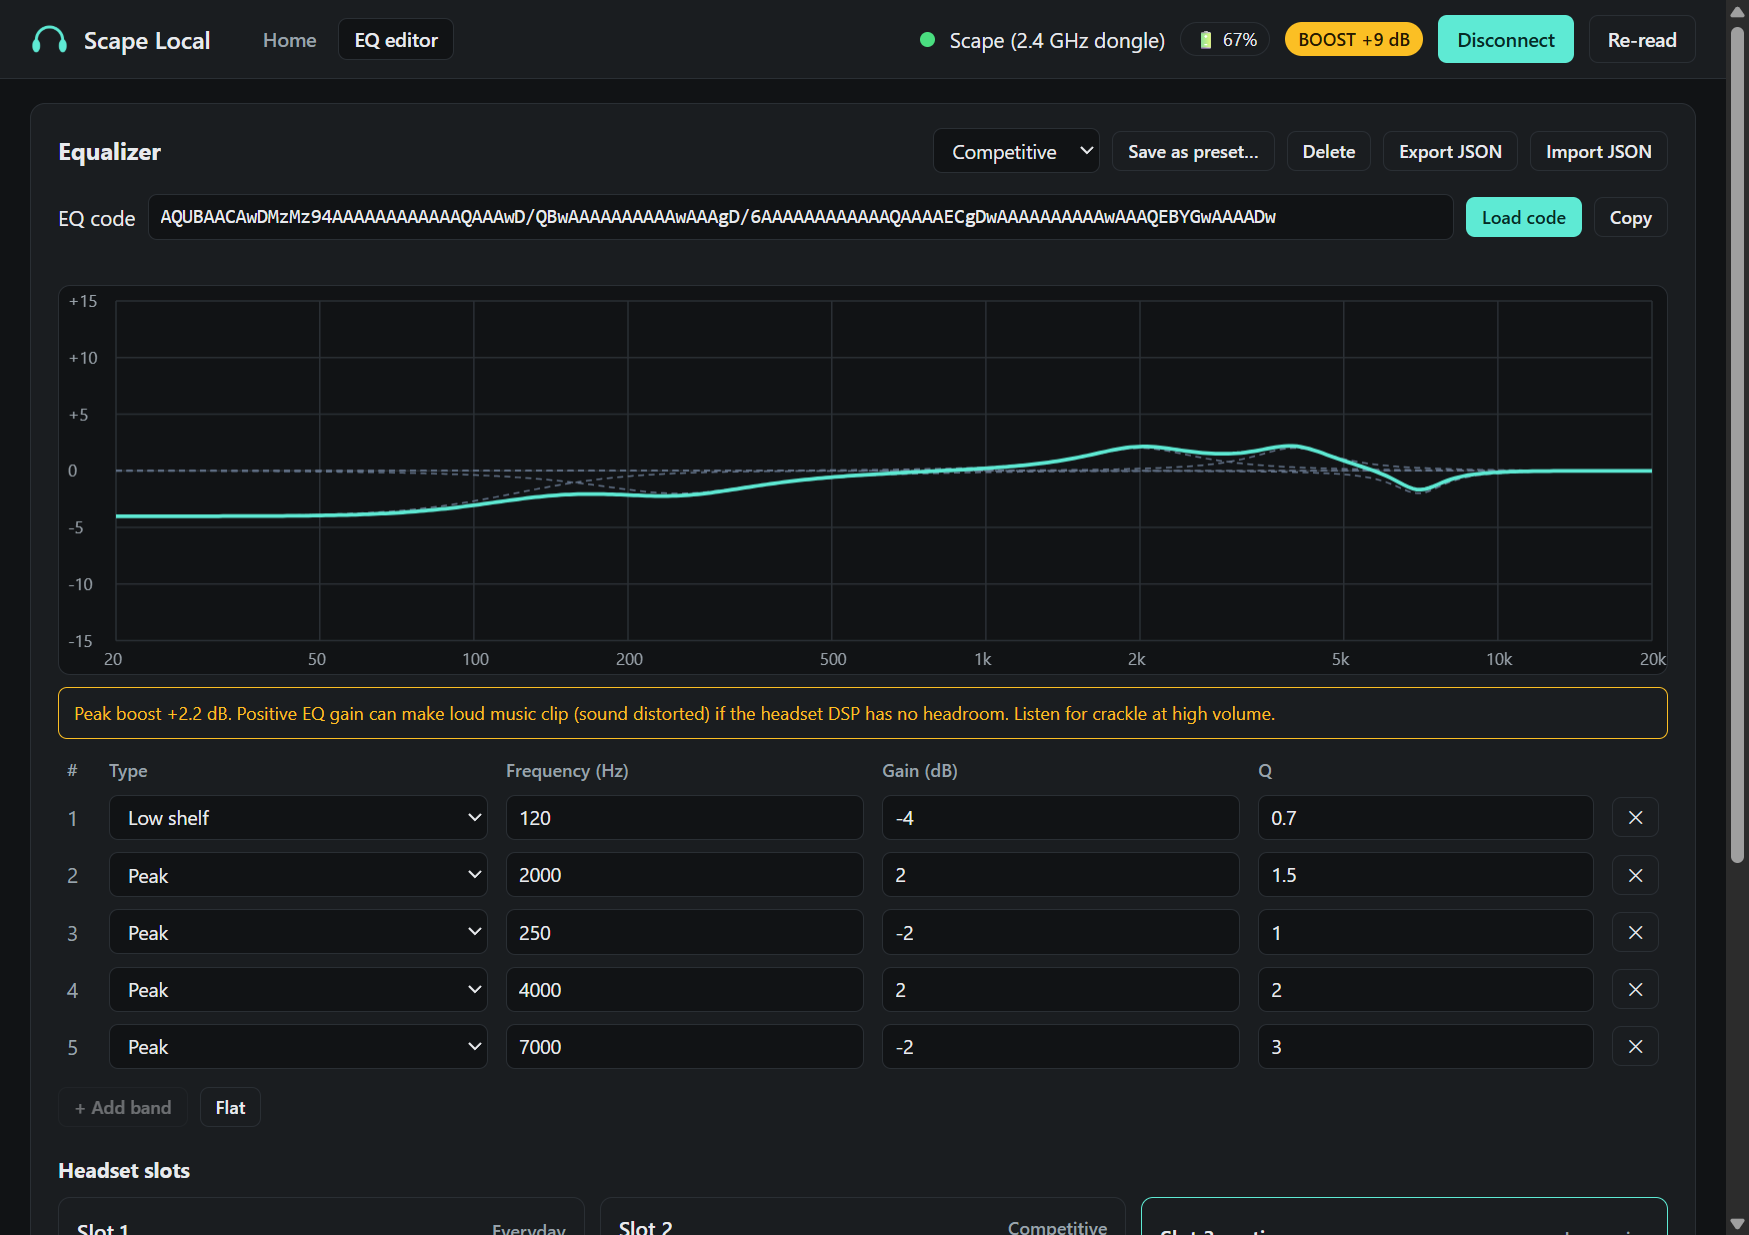
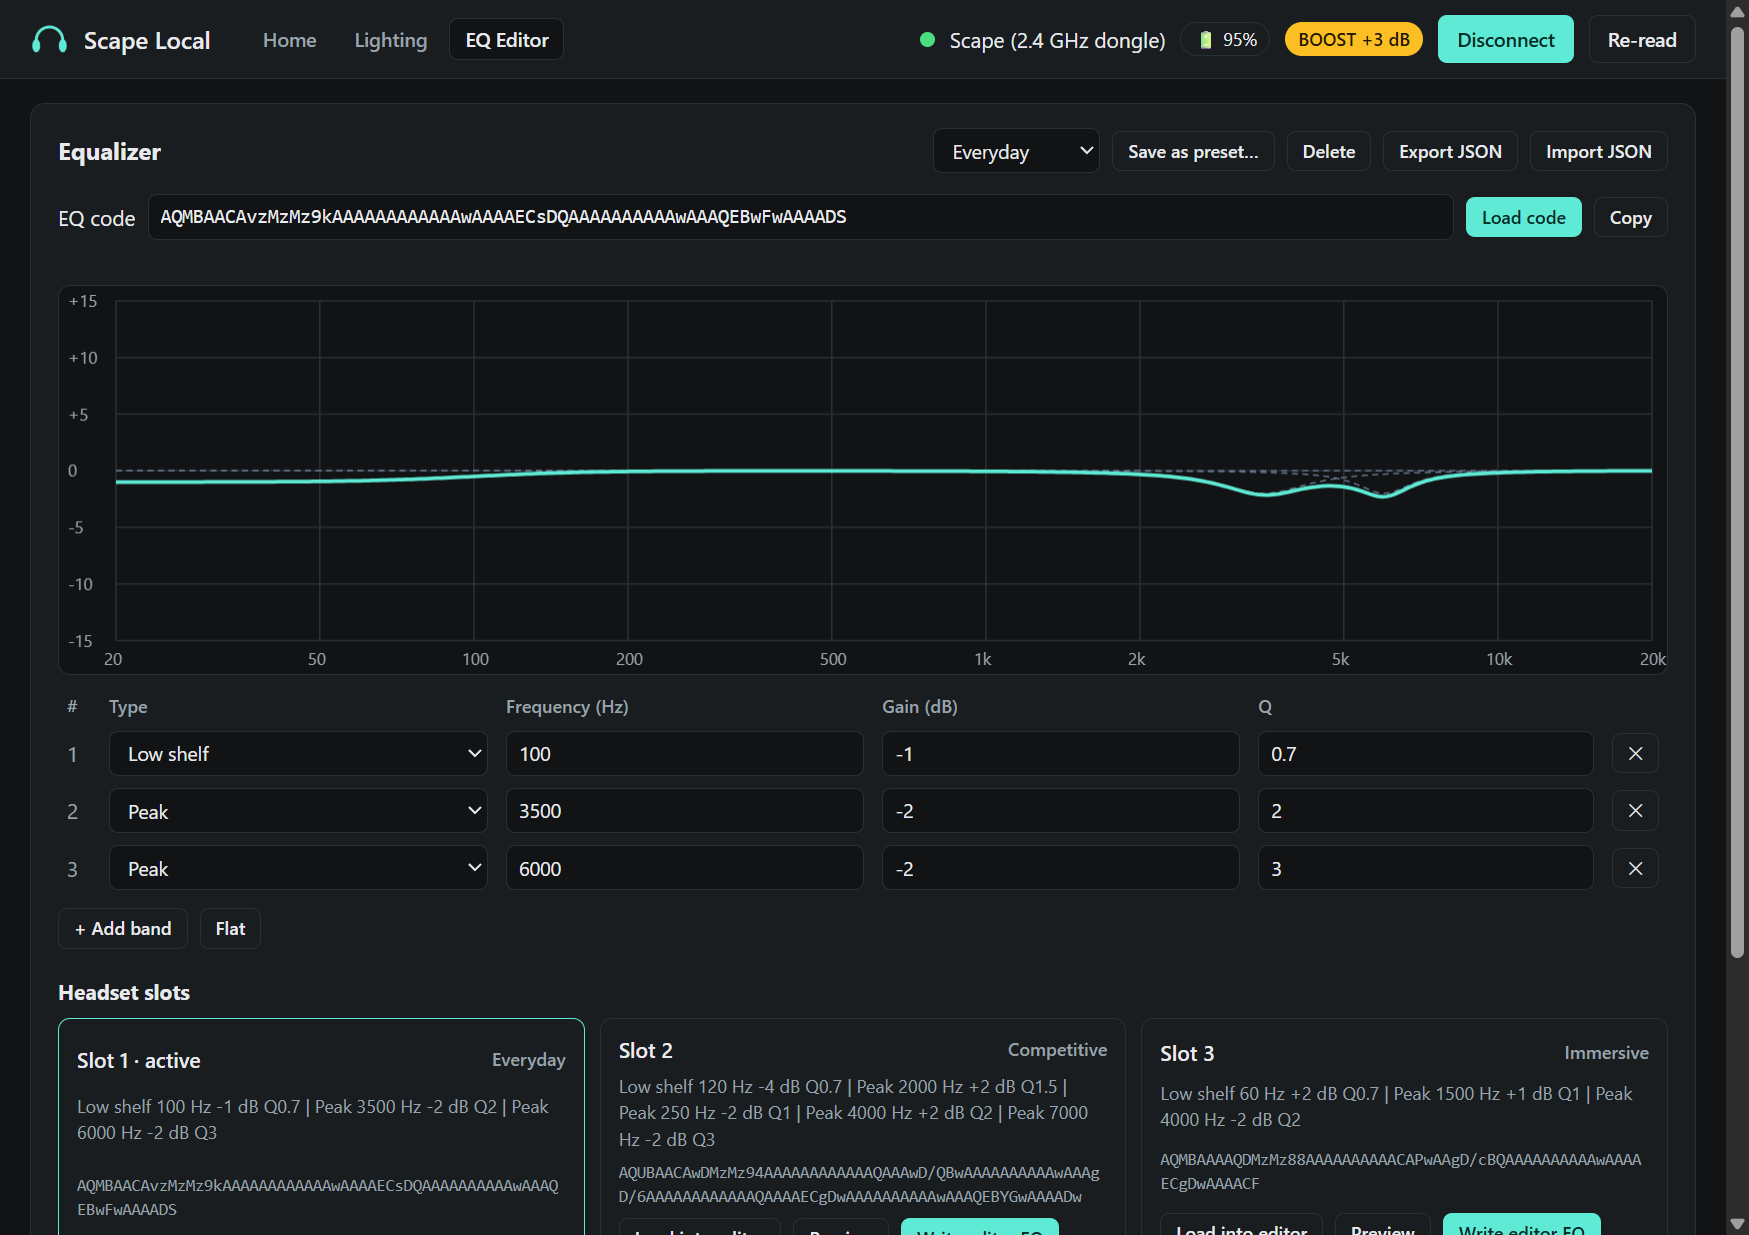
Lighting gets its own tab; "EQ Editor" label; new screenshots (v0.2.1)
- Home stays simple: EQ slots, headset info, lighting on/off (+ "Themes…" link), mic, Boost.
- Lighting card moved to a Lighting tab; the LED preview only animates while it's visible.
- Tab label "EQ editor" -> "EQ Editor".
- README: Lighting screenshot added, Home/EQ Editor screenshots retaken (serial masked).

diff --git a/app/renderer/index.html b/app/renderer/index.html
@@ -14,7 +14,8 @@
       <img src="img/icon.png" alt="" /><span>Scape Local</span>
       <nav class="tabs" aria-label="View">
         <button class="tab" data-view="home">Home</button>
-        <button class="tab" data-view="editor">EQ editor</button>
+        <button class="tab" data-view="lighting">Lighting</button>
+        <button class="tab" data-view="editor">EQ Editor</button>
       </nav>
     </div>
     <div class="conn">
@@ -38,7 +39,7 @@
     </section>
 
     <!-- ================= LIGHTING ================= -->
-    <section class="card wide view-home" id="cardLighting">
+    <section class="card wide view-lighting" id="cardLighting">
       <div class="card-head">
         <h2>Lighting</h2>
         <div class="seg" role="radiogroup" aria-label="Lighting source">
@@ -97,6 +98,7 @@
           <div class="actions">
             <button class="btn small ghost" data-act="lights" data-on="0" disabled>Off</button>
             <button class="btn small ghost" data-act="lights" data-on="1" disabled>On</button>
+            <button class="btn small ghost" data-goto="lighting">Themes…</button>
           </div>
         </div>
         <div class="row">

diff --git a/app/renderer/style.css b/app/renderer/style.css
@@ -156,7 +156,7 @@ dialog .log { max-height: 50vh; }
 .slider output.hot { color: var(--warn); }
 
 /* ---- views ---- */
-body[data-view="home"] .view-editor, body[data-view="editor"] .view-home { display: none; }
+body:not([data-view="home"]) .view-home, body:not([data-view="lighting"]) .view-lighting, body:not([data-view="editor"]) .view-editor { display: none; }
 .tabs { display: inline-flex; gap: 4px; margin-left: 14px; }
 .tab { font: inherit; font-size: 13px; background: transparent; color: var(--muted); border: 1px solid transparent; border-radius: 6px; padding: 4px 10px; cursor: pointer; }
 .tab:hover { color: var(--text); }

diff --git a/app/renderer/js/app.js b/app/renderer/js/app.js
@@ -752,7 +752,7 @@ function setView(v) {
   if (v === 'editor') renderGraph(); // canvas needs a size once visible
 }
 document.querySelectorAll('[data-view].tab, [data-goto]').forEach((b) => b.addEventListener('click', () => setView(b.dataset.view || b.dataset.goto)));
-setView(store.get('scape.view', 'home'));
+setView(['home', 'lighting', 'editor'].includes(store.get('scape.view')) ? store.get('scape.view') : 'home');
 
 // ---------------------------------------------------------------------------
 // Boost (PC via Equalizer APO, or headset EQ band)

diff --git a/app/renderer/js/lighting-ui.js b/app/renderer/js/lighting-ui.js
@@ -50,7 +50,7 @@ export function initLighting(ctx) {
     }
   }
   setInterval(() => {
-    if (!frames || document.hidden) return;
+    if (!frames || document.hidden || document.body.dataset.view !== 'lighting') return;
     const n = frames.length / (3 * LED_COUNT);
     const o = (frame % n) * 3 * LED_COUNT;
     for (let i = 0; i < LED_COUNT; i++) leds[i].style.backgroundColor = rgbToHex(Array.from(frames.subarray(o + 3 * i, o + 3 * i + 3)));

diff --git a/README.md b/README.md
@@ -20,10 +20,10 @@ re-implements the parts you need locally, after mapping the headset's HID protoc
 ## Features
 
 - **EQ slots:** see the headset's three EQ slots by name and switch between them with one click.
-- **EQ editor:** up to 5 bands (peak, low/high shelf, low/high pass, notch, band pass), live
+- **EQ Editor:** up to 5 bands (peak, low/high shelf, low/high pass, notch, band pass), live
   frequency-response graph, Adjust Pro-compatible **EQ share codes** (paste/copy), presets with
   JSON import/export. It writes to the headset with automatic backup and read-back verification.
-- **Lighting:** all 10 Fractal themes (Northern lights, Sunset, Starfall, …) and custom patterns
+- **Lighting** (its own tab): all 10 Fractal themes (Northern lights, Sunset, Starfall, …) and custom patterns
   (Shift, Still, Breathe, Waves, Two color fade, Lava lamp) with your own colours, speed and
   brightness, plus a live preview of the 12 LEDs. Effects are rendered byte-identical to Adjust Pro.
 - Lighting on/off, **sidetone** (0 to 100 %), **mic noise cancellation** on/off. Optional
@@ -38,7 +38,9 @@ re-implements the parts you need locally, after mapping the headset's HID protoc
   2.4 GHz dongle or USB-C.
 - **Offline and private:** no account, no telemetry. The app blocks all network requests.
 
-![EQ editor](docs/screenshot-editor.png)
+![Lighting](docs/screenshot-lighting.png)
+
+![EQ Editor](docs/screenshot-editor.png)
 
 ## Install
 
@@ -63,7 +65,7 @@ The app talks to the headset through a strict **allowlist** of HID commands
   back and compared. Overwriting a slot from the editor asks for confirmation.
 - Lighting uploads only go to effect slot 1 (the one Adjust Pro uses). Clearing a slot, boot
   effects and the Windows Dynamic Lighting switch are blocked. The stored effect is read back after each upload.
-- Every packet sent and received is shown in the **HID packet log** (EQ editor view).
+- Every packet sent and received is shown in the **HID packet log** (EQ Editor tab).
 
 Tested on a Scape over the 2.4 GHz dongle (dongle FW 03.21.00, headset FW 03.30.00). USB-C
 direct mode uses the same commands but hasn't been tested yet.
